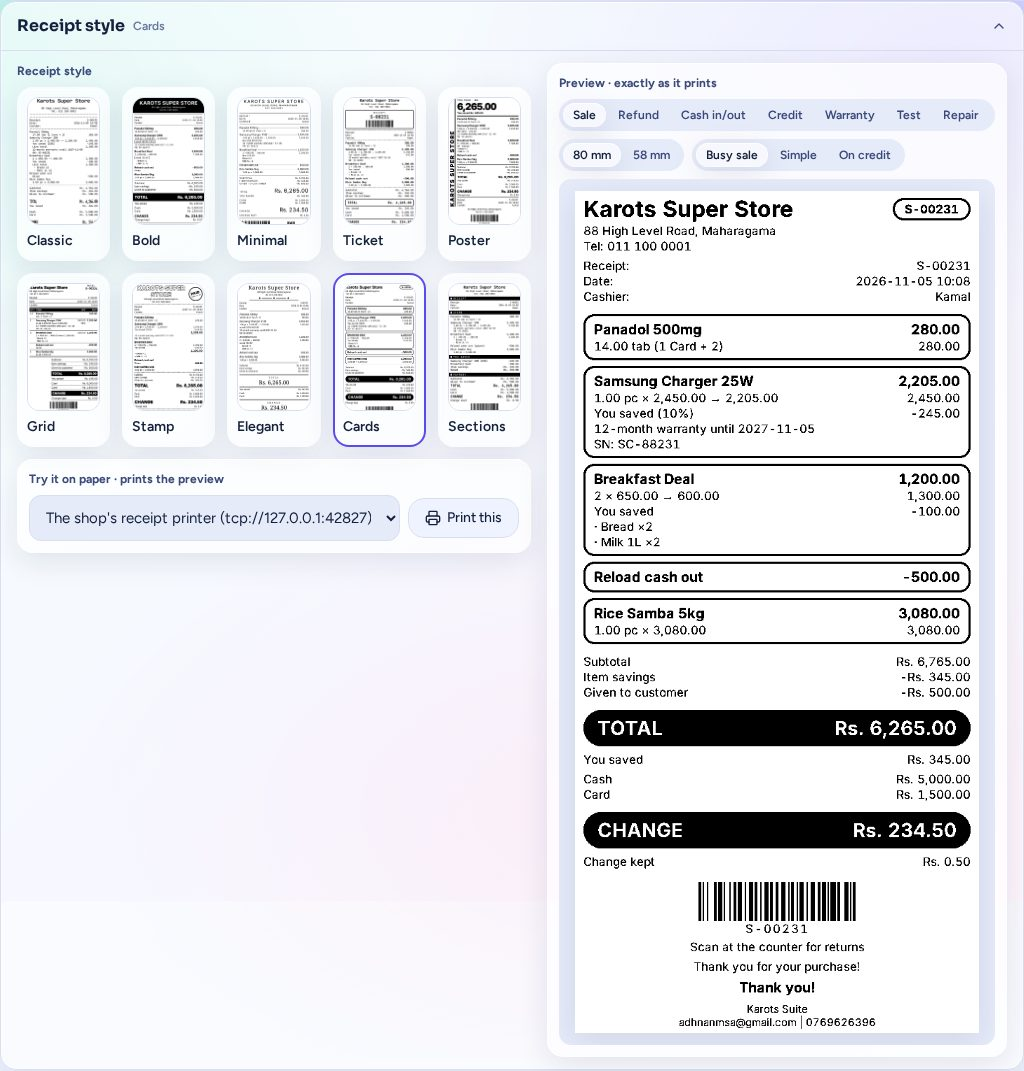
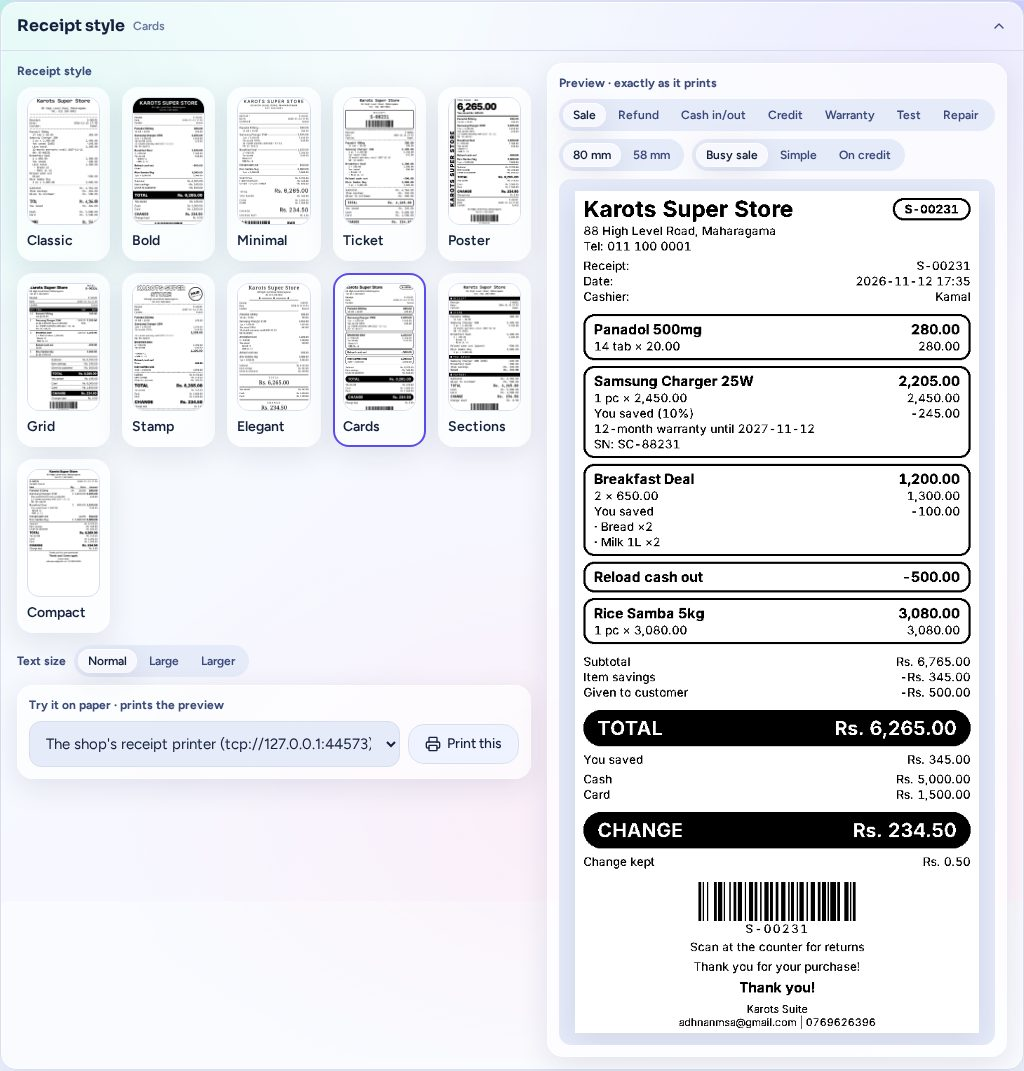
docs(images): receipt styles with Compact, Settings with the thank-you line; core text names no plugin

diff --git a/web/src/features/print/styles/styles.test.tsx b/web/src/features/print/styles/styles.test.tsx
@@ -106,7 +106,7 @@ it('styles are the eleven keys in order', () => {
   expect(STYLES.map((s) => s.key)).toEqual(['classic', 'bold', 'minimal', 'ticket', 'poster', 'grid', 'stamp', 'elegant', 'cards', 'sections', 'compact'])
 })
 
-describe("the shop's thank-you line replaces every style's own (a pharmacy's Get well soon)", () => {
+describe("the shop's thank-you line replaces every style's own ("Get well soon")", () => {
   for (const s of STYLES)
     for (const width of ['80', '58'] as const)
       it(`${s.key} · ${width} mm`, () => {
